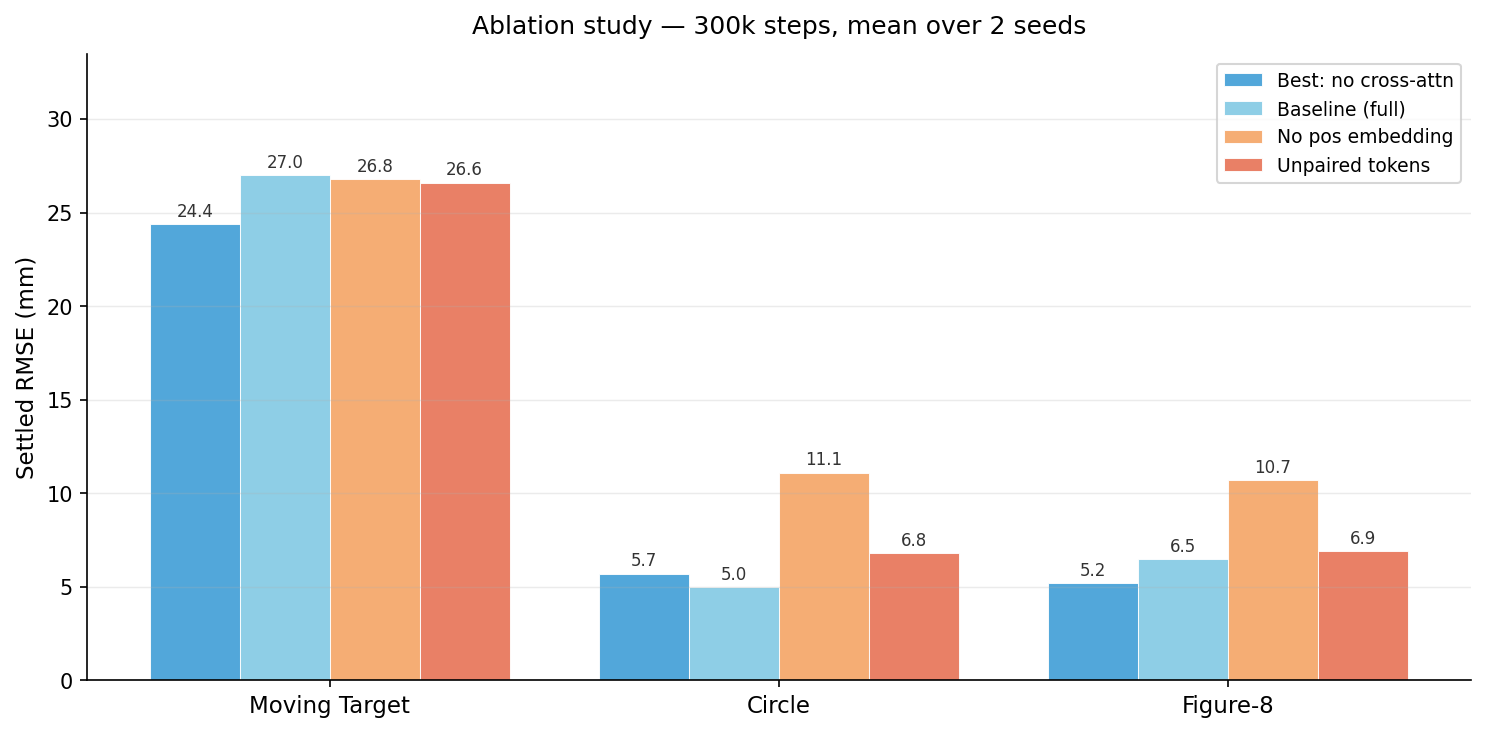
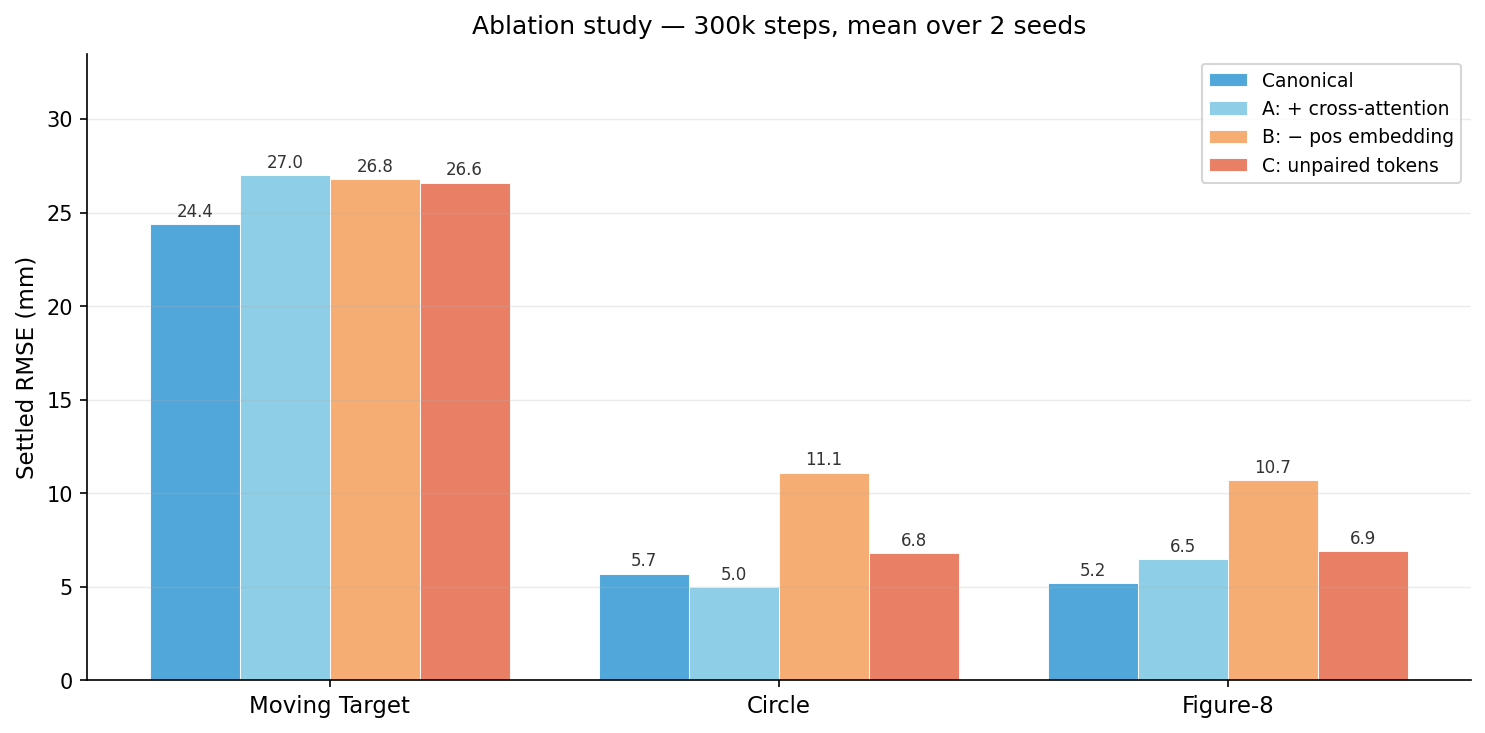
Figures: clean up model labels, canonical=no-xattn baseline
- rmse_comparison: drop 300k rows, show IK + MLP 5M/10M + Transformer 5M
- ablation_bar: Canonical (no xattn) is reference bar; + cross-attention
  is ablation A; B/C relabeled to match README
- efficiency_curve: 'Transformer (no xattn)' → 'Transformer'
- make_figures.py: tfm_noxattn_5M baked in (19.7/5.3/6.0 mm)

Changed region(s): [[0.8054, 0.09, 0.9912, 0.2401]]

diff --git a/scripts/make_figures.py b/scripts/make_figures.py
@@ -45,7 +45,7 @@ KNOWN: dict[str, tuple] = {
     "tfm_noxattn_300k":  (24.4,  5.7, 5.2),   # mean of 2 seeds
     "tfm_nope_300k":     (26.8, 11.1, 10.7),
     "tfm_unpaired_300k": (26.6,  6.8, 6.9),   # mean of 2 seeds
-    "tfm_noxattn_5M":    (None, None, None),   # filled after 5M run
+    "tfm_noxattn_5M":    (19.7, 5.3, 6.0),
 }
 
 def _refresh_known():
@@ -81,11 +81,10 @@ def _proj(pos, traj):
 def make_rmse_bar_chart(out: Path):
     _refresh_known()
     methods = [
-        ("IK baseline",        "ik",              C_IK,  "//"),
-        ("MLP  300k",          "mlp_300k",        C_MLP, ""),
-        ("MLP  10M",           "mlp_10M",         C_MLP, ""),
-        ("Transformer  300k",  "tfm_noxattn_300k",C_TFM, ""),
-        ("Transformer  5M",    "tfm_noxattn_5M",  C_TFM, ""),
+        ("IK baseline",   "ik",             C_IK,  "//"),
+        ("MLP  5M",       "mlp_5M",         C_MLP, ""),
+        ("MLP  10M",      "mlp_10M",        C_MLP, ""),
+        ("Transformer 5M","tfm_noxattn_5M", C_TFM, ""),
     ]
     tidx = {t: i for i, t in enumerate(TRAJS)}
     x = np.arange(len(TRAJS)); w = 0.15
@@ -135,7 +134,7 @@ def make_efficiency_curve(out: Path):
         tx = [p[0] for p in tfm_pts]; ty = [p[1][mi] for p in tfm_pts]
         ax.plot(mx, my, "o-", color=C_MLP, lw=2, ms=7, label="MLP", zorder=3)
         ax.plot(tx, ty, "s-", color=C_TFM, lw=2, ms=7,
-                label="Transformer (no xattn)", zorder=4)
+                label="Transformer", zorder=4)
         for pts, col in [(mlp_pts, C_MLP),(tfm_pts, C_TFM)]:
             for steps, vals in pts:
                 ax.annotate(f"{vals[mi]:.1f}mm", xy=(steps, vals[mi]),
@@ -167,10 +166,10 @@ def make_efficiency_curve(out: Path):
 def make_ablation_chart(out: Path):
     _refresh_known()
     ablations = [
-        ("Best: no cross-attn",  "tfm_noxattn_300k",  C_TFM),
-        ("Baseline (full)",      "tfm_base_300k",      "#7ec8e3"),
-        ("No pos embedding",     "tfm_nope_300k",      "#f4a261"),
-        ("Unpaired tokens",      "tfm_unpaired_300k",  "#e76f51"),
+        ("Canonical",              "tfm_noxattn_300k",  C_TFM),
+        ("A: + cross-attention",   "tfm_base_300k",     "#7ec8e3"),
+        ("B: − pos embedding",     "tfm_nope_300k",     "#f4a261"),
+        ("C: unpaired tokens",     "tfm_unpaired_300k", "#e76f51"),
     ]
     tidx = {t: i for i, t in enumerate(TRAJS)}
     x = np.arange(len(TRAJS)); w = 0.20